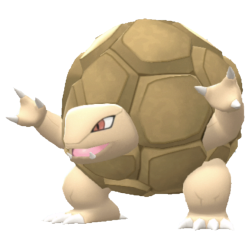
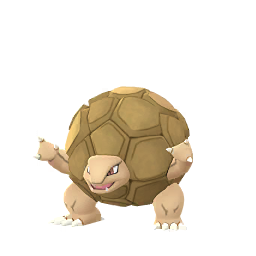
Adição do Golen Kanto Shiny + Cubone + Maroak + Chansey Evento

diff --git a/index.css b/index.css
@@ -23016,10 +23016,24 @@ hr {
     display: block;
 }
 
+#Kanto68_1_Evento{
+    background-color: #836FFF;
+    width: 17%;
+    height: 25%;
+}
+
+#Kanto68_1_Evento img {
+    max-width: 100%;
+    max-height: 100%;
+    margin: auto;
+    display: block;
+}
+
 #Kanto77_1_Evento{
     background-color: #836FFF;
     width: 17%;
     height: 25%;
+    margin-left: 5%;
 }
 
 #Kanto77_1_Evento img {
@@ -23033,7 +23047,6 @@ hr {
     background-color: #836FFF;
     width: 17%;
     height: 25%;
-    margin-left: 5%;
 }
 
 #Kanto78_1_Evento img {
@@ -23086,6 +23099,7 @@ hr {
     background-color: #836FFF;
     width: 17%;
     height: 25%;
+    margin-left: 5%;
 }
 
 #Kanto88_1_Evento img {
@@ -23099,7 +23113,6 @@ hr {
     background-color: #836FFF;
     width: 17%;
     height: 25%;
-    margin-left: 5%;
 }
 
 #Kanto89_1_Evento img {
@@ -23152,9 +23165,49 @@ hr {
     background-color: #836FFF;
     width: 17%;
     height: 25%;
+    margin-left: 5%;
 }
 
 #Kanto94_4_Evento img {
+    max-width: 100%;
+    max-height: 100%;
+    margin: auto;
+    display: block;
+}
+
+#Kanto104_1_Evento{
+    background-color: #836FFF;
+    width: 17%;
+    height: 25%;
+}
+
+#Kanto104_1_Evento img {
+    max-width: 100%;
+    max-height: 100%;
+    margin: auto;
+    display: block;
+}
+
+#Kanto105_1_Evento{
+    background-color: #836FFF;
+    width: 17%;
+    height: 25%;
+}
+
+#Kanto105_1_Evento img {
+    max-width: 100%;
+    max-height: 100%;
+    margin: auto;
+    display: block;
+}
+
+#Kanto113_1_Evento{
+    background-color: #836FFF;
+    width: 17%;
+    height: 25%;
+}
+
+#Kanto113_1_Evento img {
     max-width: 100%;
     max-height: 100%;
     margin: auto;

diff --git a/index.html b/index.html
@@ -6527,6 +6527,10 @@
     <div id="Kanto55_1_Evento">
       <img alt="Golduck - Holiday attire" title="Golduck - Holiday attire" src="EventoCollection/055_01.png" width="290" height="250" />
     </div>
+
+    <div id="Kanto68_1_Evento">
+      <img alt="Machamp - Wild Area 2026" title="Machamp - Wild Area 2026" src="EventoCollection/068_01.png" width="290" height="250" />
+    </div>
     
     <div id="Kanto77_1_Evento">
       <img alt="Ponyta - Candela-themed necklace" title="Ponyta - Candela-themed necklace" src="EventoCollection/077_01.png" width="290" height="250" />
@@ -6570,6 +6574,18 @@
 
     <div id="Kanto94_4_Evento">
       <img alt="Gengar - Tricks & Treats" title="Gengar - Tricks & Treats" src="EventoCollection/094_04.png" width="290" height="250" />
+    </div>
+
+    <div id="Kanto104_1_Evento">
+      <img alt="Cubone - Cempasúchil Crown" title="Cubone - Cempasúchil Crown" src="EventoCollection/104_01.png" width="290" height="250" />
+    </div>
+
+    <div id="Kanto105_1_Evento">
+      <img alt="Marowak - Cempasúchil Crown" title="Marowak - Cempasúchil Crown" src="EventoCollection/105_01.png" width="290" height="250" />
+    </div>
+
+    <div id="Kanto113_1_Evento">
+      <img alt="Chansey - Flower Crown" title="Chansey - Flower Crown" src="EventoCollection/113_01.png" width="290" height="250" />
     </div>
 
 
@@ -6946,7 +6962,7 @@
       </div>
   
       <div id="ShinyKanto76">
-        <img alt="Golem" title="Golem" src="Num_Pokedex/poke_076.png" width="290" height="250" />
+        <img alt="Golem" title="Golem" src="Shiny/076.png" width="290" height="250" />
       </div>
   
       <div id="ShinyKanto76-a">
